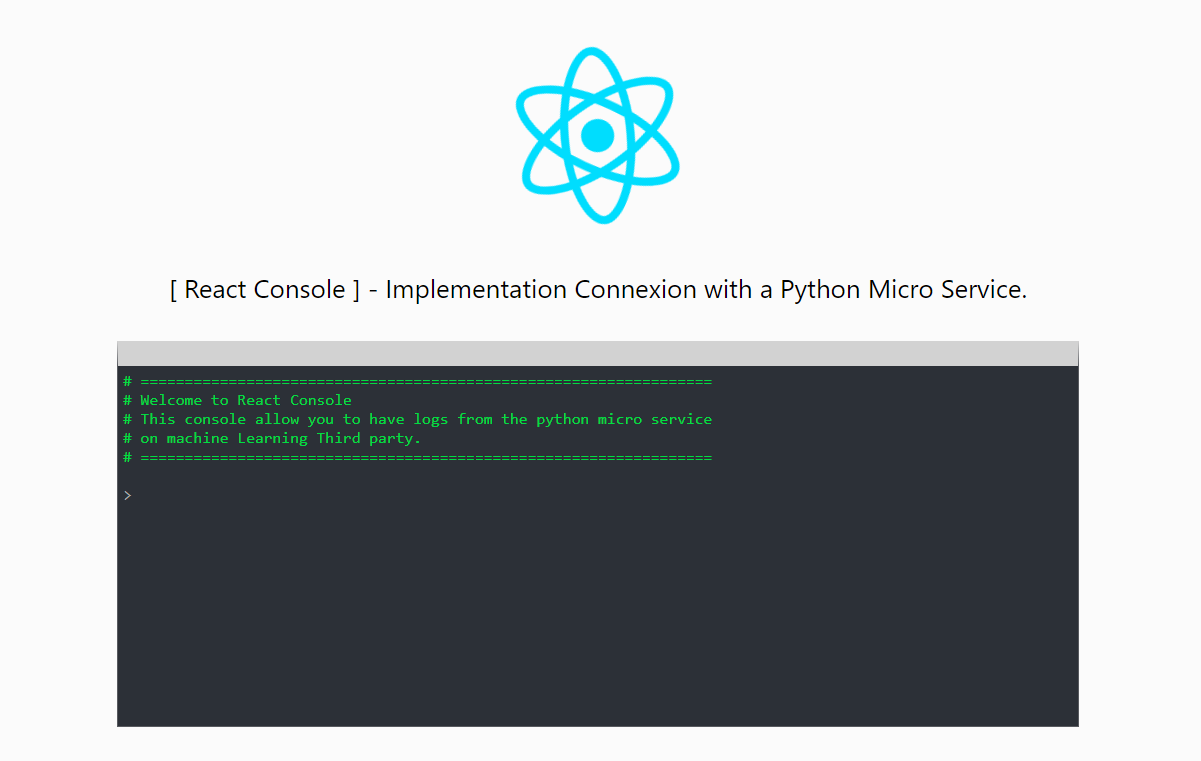
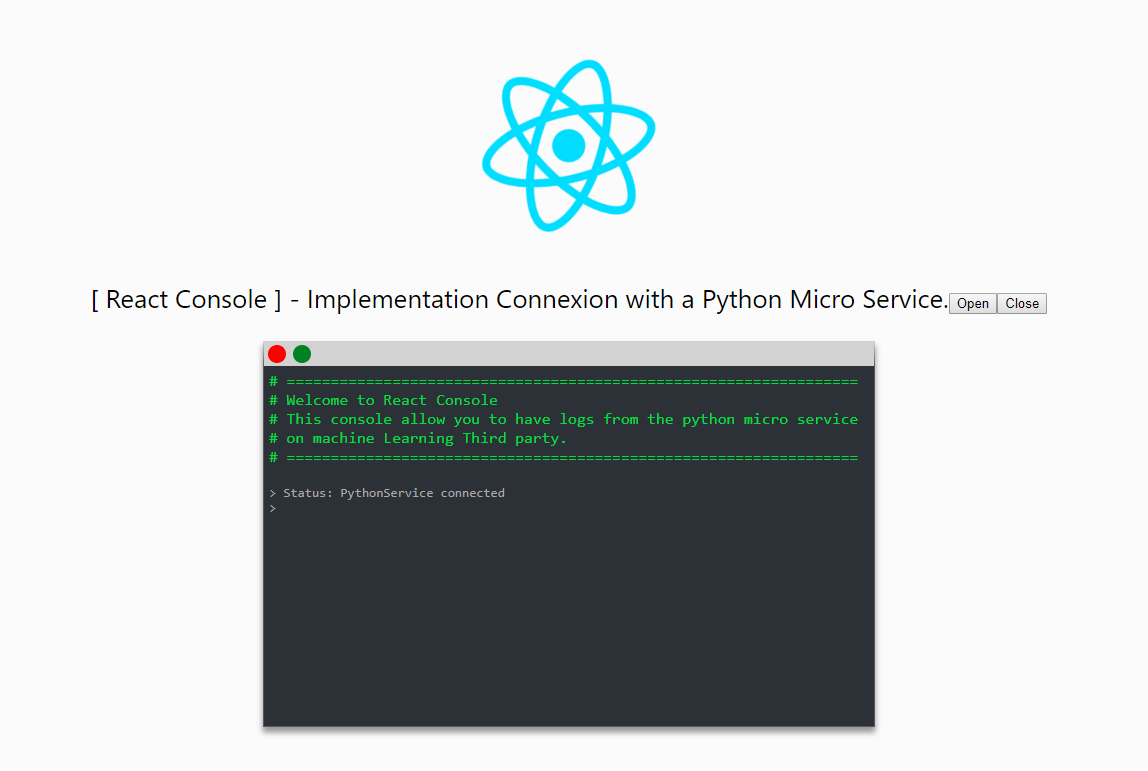
Remove useless console and update the render image

Changed region(s): [[0.0915, 0.3627, 0.9146, 0.9671], [0.3963, 0.0604, 0.5793, 0.3022], [0.7012, 0.544, 0.7317, 0.5742]]

diff --git a/src/dispox_console.js b/src/dispox_console.js
@@ -144,9 +144,9 @@ class dispox_console extends Component {
     
     handleKeyPress(event){
         if(event.key === 'Enter'){
-            console.log('enter press here! ')
-            console.log("Youtr command: "+event.target.value+" can not be executed!");
-            console.log("This feature has been disabled!");
+            // console.log('enter press here! ')
+            // console.log("Youtr command: "+event.target.value+" can not be executed!");
+            // console.log("This feature has been disabled!");
             // axios.get('http://localhost:5000/command?command='+event.target.value)
             //     .then(response => {
             //         console.log(response.data);
